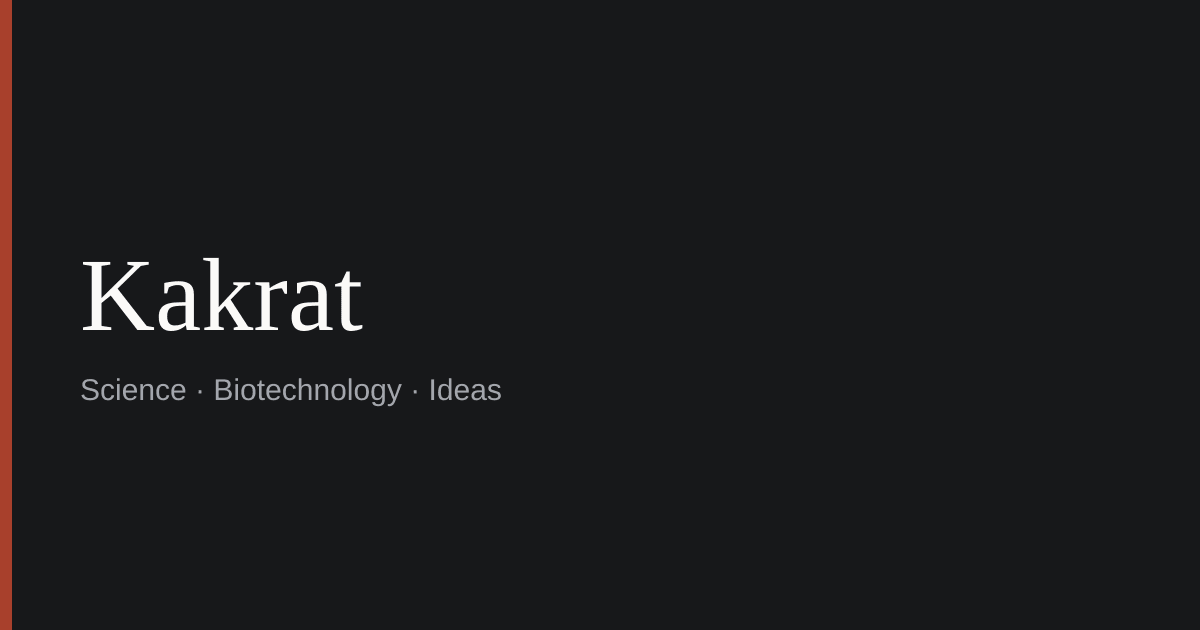
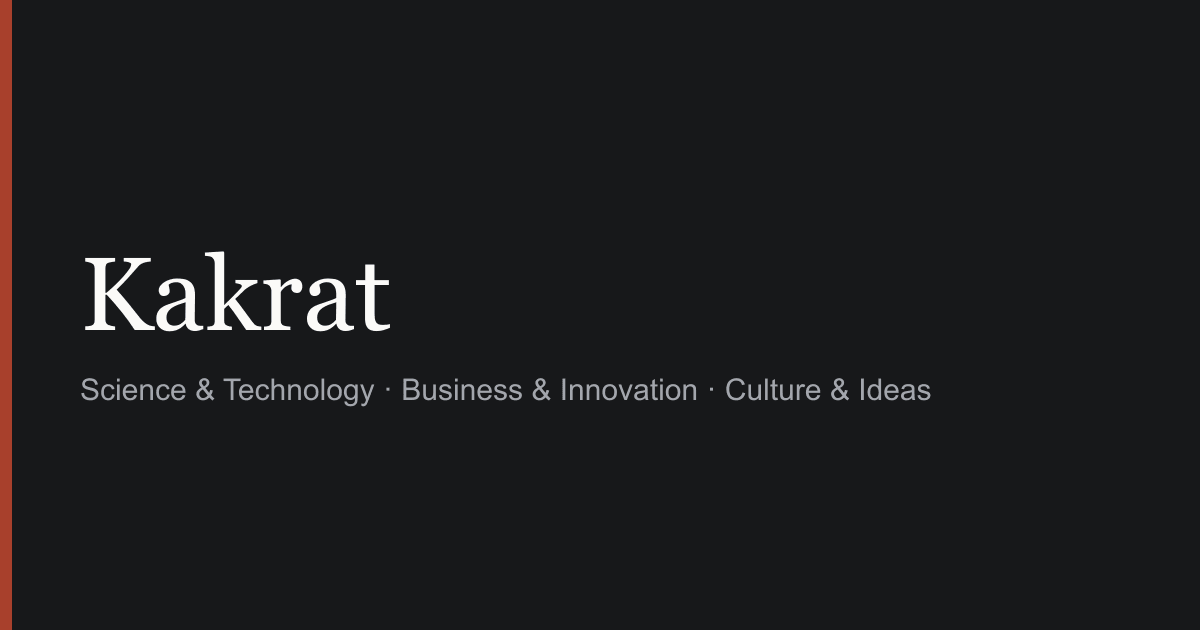
Consolidate topics into three editorial pillars

Changed region(s): [[0.0617, 0.3921, 0.3392, 0.5429], [0.0617, 0.6032, 0.7708, 0.6635]]

diff --git a/src/lib/content/topics.ts b/src/lib/content/topics.ts
@@ -8,40 +8,20 @@ export type TopicMeta = {
 
 /** Static editorial config for the fixed topic taxonomy. */
 export const TOPIC_META: Record<Topic, TopicMeta> = {
-  science: {
-    slug: "science",
-    label: "Science",
-    description: "Reporting and essays on discovery, research, and the natural world.",
+  "science-technology": {
+    slug: "science-technology",
+    label: "Science & Technology",
+    description: "Discovery, biotechnology, engineering, and the technologies reshaping the world.",
   },
-  biotechnology: {
-    slug: "biotechnology",
-    label: "Biotechnology",
-    description: "The science and business of engineering biology.",
+  "business-innovation": {
+    slug: "business-innovation",
+    label: "Business & Innovation",
+    description: "Entrepreneurship, strategy, companies, and how new ideas become real.",
   },
-  entrepreneurship: {
-    slug: "entrepreneurship",
-    label: "Entrepreneurship",
-    description: "Building companies, and the ideas behind them.",
-  },
-  technology: {
-    slug: "technology",
-    label: "Technology",
-    description: "How technology is built, and what it changes.",
-  },
-  storytelling: {
-    slug: "storytelling",
-    label: "Storytelling",
-    description: "Narrative nonfiction, fiction, and the craft of telling a story.",
-  },
-  philosophy: {
-    slug: "philosophy",
-    label: "Philosophy",
-    description: "Ideas about how to think, live, and reason.",
-  },
-  ideas: {
-    slug: "ideas",
-    label: "Ideas",
-    description: "Essays that don't fit neatly anywhere else.",
+  "culture-ideas": {
+    slug: "culture-ideas",
+    label: "Culture & Ideas",
+    description: "Philosophy, storytelling, language, culture, and the ideas behind how we live.",
   },
 };
 

diff --git a/src/app/about/page.tsx b/src/app/about/page.tsx
@@ -3,7 +3,7 @@ import { buildMetadata } from "@/lib/seo/metadata";
 
 export const metadata: Metadata = buildMetadata({
   title: "About",
-  description: "Kakrat is an independent publication on science, biotechnology, entrepreneurship, technology, storytelling, philosophy, and ideas.",
+  description: "Kakrat is an independent publication on science and technology, business and innovation, culture and ideas.",
   path: "/about",
 });
 
@@ -13,8 +13,9 @@ export default function AboutPage() {
       <h1 className="font-display text-4xl text-ink">About Kakrat</h1>
       <div className="prose prose-lg mt-8 max-w-none font-sans">
         <p>
-          Kakrat is an independent publication covering science, biotechnology,
-          entrepreneurship, technology, storytelling, philosophy, and ideas.
+          Kakrat is an independent publication organized around three editorial
+          pillars: Science &amp; Technology, Business &amp; Innovation, and Culture
+          &amp; Ideas.
         </p>
         <p>
           We publish long-form essays and reporting written to be read, not

diff --git a/src/types/content.ts b/src/types/content.ts
@@ -5,13 +5,9 @@ import { z } from "zod";
  * is an editorial decision — update this enum *and* src/lib/content/topics.ts.
  */
 export const TOPICS = [
-  "science",
-  "biotechnology",
-  "entrepreneurship",
-  "technology",
-  "storytelling",
-  "philosophy",
-  "ideas",
+  "science-technology",
+  "business-innovation",
+  "culture-ideas",
 ] as const;
 
 export const topicSchema = z.enum(TOPICS);
@@ -67,7 +63,8 @@ export type Author = z.infer<typeof authorSchema>;
  * Editorial credibility layer: every field here is optional except the
  * dates. A storytelling or philosophy essay can carry none of
  * references/editorialNote/sourceNote and simply won't render a sourcing
- * block. A science/biotech piece is expected to populate `references`.
+ * block. A reported science or biotechnology piece is expected to populate
+ * `references`.
  */
 export const articleFrontmatterSchema = z.object({
   title: z.string(),

diff --git a/src/app/page.tsx b/src/app/page.tsx
@@ -12,7 +12,7 @@ export default function HomePage() {
   return (
     <div className="mx-auto max-w-6xl px-6 py-14">
       <h1 className="mb-10 font-display text-3xl text-ink md:text-4xl">
-        Science, technology, and the ideas shaping what&apos;s next.
+        Science, innovation, and the ideas shaping how we live.
       </h1>
       {featured && (
         <section aria-labelledby="featured-heading">
@@ -47,7 +47,7 @@ export default function HomePage() {
 
       <section className="mt-20 border-t border-line pt-12" aria-labelledby="topics-heading">
         <h2 id="topics-heading" className="font-display text-2xl text-ink">
-          Explore by topic
+          Explore our pillars
         </h2>
         <div className="mt-6 flex flex-wrap gap-3">
           {ALL_TOPICS.map((topic) => (

diff --git a/src/components/article/SourcesNotes.tsx b/src/components/article/SourcesNotes.tsx
@@ -2,9 +2,9 @@ import type { Reference } from "@/types/content";
 
 /**
  * Editorial credibility block. Renders nothing if the article carries none
- * of references/editorialNote/sourceNote — a storytelling or philosophy
- * piece simply won't show this section, so sourcing transparency doesn't
- * force an academic-paper look onto content that isn't reporting.
+ * of references/editorialNote/sourceNote — a story or philosophical essay
+ * simply won't show this section, so sourcing transparency doesn't force an
+ * academic-paper look onto content that isn't reporting.
  */
 export function SourcesNotes({
   references,

diff --git a/src/lib/seo/constants.ts b/src/lib/seo/constants.ts
@@ -1,6 +1,6 @@
 export const SITE_NAME = "Kakrat";
 export const SITE_DESCRIPTION =
-  "An independent publication on science, biotechnology, entrepreneurship, technology, storytelling, philosophy, and ideas.";
+  "An independent publication on science and technology, business and innovation, culture and ideas.";
 /** Update if the domain or protocol ever changes — everything (sitemap, RSS, JSON-LD, canonical URLs) reads from here. */
 export const SITE_URL = "https://kakrat.com";
 /** Site-wide default social share image (1200x630). Regenerate with `node scripts/generate-brand-assets.mjs`. */

diff --git a/functions/api/publish.test.ts b/functions/api/publish.test.ts
@@ -12,7 +12,7 @@ function request(mutate?: (form: FormData) => void): Request {
   form.set("title", "Diagnostic draft");
   form.set("slug", "diagnostic-draft");
   form.set("description", "A diagnostic draft used to verify publish errors.");
-  form.set("topic", "technology");
+  form.set("topic", "science-technology");
   form.set("authors", "kakratian");
   form.set("tags", "diagnostics");
   form.set("body", "A short diagnostic body.");

diff --git a/functions/api/publish.ts b/functions/api/publish.ts
@@ -20,13 +20,9 @@
 import { z } from "zod";
 
 const TOPICS = [
-  "science",
-  "biotechnology",
-  "entrepreneurship",
-  "technology",
-  "storytelling",
-  "philosophy",
-  "ideas",
+  "science-technology",
+  "business-innovation",
+  "culture-ideas",
 ] as const;
 
 const articleFrontmatterSchema = z.object({

diff --git a/src/types/content.test.ts b/src/types/content.test.ts
@@ -7,7 +7,7 @@ const baseFrontmatter = {
   description: "A test article.",
   publishedAt: "2026-01-01",
   authors: ["tanay-bhatt"],
-  topic: "ideas" as const,
+  topic: "culture-ideas" as const,
   coverImage: "/images/covers/science.svg",
   coverImageAlt: "A test cover image",
 };

diff --git a/content/articles/README.md b/content/articles/README.md
@@ -11,7 +11,7 @@ description: "150-200 char summary for meta description / cards."
 publishedAt: "2026-01-01"
 updatedAt: "2026-01-05"                        # optional, only if substantively edited post-publish
 authors: ["author-id"]                         # one or more, matching content/authors/<id>.json
-topic: "science"                               # one of the fixed topics — see src/lib/content/topics.ts
+topic: "science-technology"                    # one of the three fixed pillars — see src/lib/content/topics.ts
 tags: ["tag-one", "tag-two"]
 coverImage: "/images/covers/example.svg"
 coverImageAlt: "Description of the cover image"
@@ -20,8 +20,8 @@ canonicalUrl: "https://example.com/original"   # optional, only for cross-posted
 
 # Editorial credibility layer — all optional. Populate what fits the piece;
 # a storytelling/philosophy essay can omit all three and no "Sources &
-# notes" section will render. A science/biotech piece should populate
-# `references` at minimum.
+# notes" section will render. A reported science/biotech piece should
+# populate `references` at minimum.
 references:
   - title: "Cited paper or article title"
     url: "https://..."

diff --git a/README.md b/README.md
@@ -1,8 +1,8 @@
 # Kakrat
 
 The source for [kakrat.com](https://kakrat.com) — an independent publication
-on science, biotechnology, entrepreneurship, technology, storytelling,
-philosophy, and ideas.
+organized around three editorial pillars: Science & Technology, Business &
+Innovation, and Culture & Ideas.
 
 Static site: Next.js (App Router, static export) + TypeScript + Tailwind CSS
 + MDX content, no database or backend.
